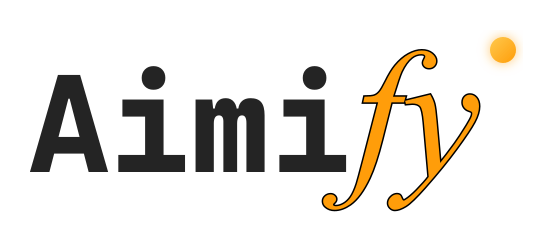
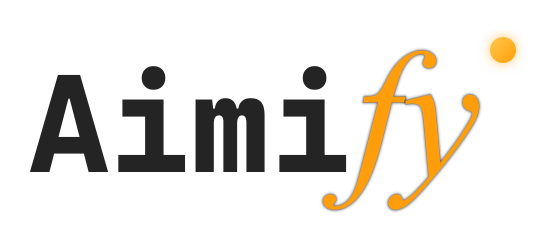
Make the "fy" wordmark outline thinner and blurred
The previous black outline (commit 7c9d404) was too hard/heavy. Replaced
it with a thin, soft-edged glow instead of a crisp ring:

- Exported PNGs: rendered the stroke as a separate blurred pass
  (feGaussianBlur, stdDeviation 1.6) behind the crisp fill text, with
  stroke-width dropped from 3 to 1.25 -- the stroke itself is thin, and
  blurring only the stroke layer (not the fill) keeps the letterforms
  sharp while the outline reads as a soft halo.
- app/globals.css .brand-accent: swapped -webkit-text-stroke (which has
  no blur option) for a stacked text-shadow using var(--aimify-ink),
  giving the same thin/blurred look and staying theme-adaptive.

Verified: both PNG variants visually inspected (dark variant composited
over #171717), CSS brace-balanced, and the dev server's compiled CSS
confirmed to contain the new text-shadow rule on .brand-accent.

diff --git a/app/globals.css b/app/globals.css
@@ -244,13 +244,16 @@ body::-webkit-scrollbar {
   font-weight: 400;
   line-height: 1;
   color: var(--aimify-gold-vivid);
-  /* Thin outline in the theme-adaptive ink color so "fy" keeps clear
-     definition against both light and dark backgrounds, matching the
-     stroke treatment on the exported wordmark PNGs. */
-  -webkit-text-stroke: 1px var(--aimify-ink);
+  /* Thin, blurred outline in the theme-adaptive ink color so "fy" keeps
+     soft definition against both light and dark backgrounds, matching
+     the blurred stroke treatment on the exported wordmark PNGs.
+     text-shadow (not -webkit-text-stroke, which can't blur) stacked
+     twice for a touch more presence without turning into a hard ring. */
+  text-shadow:
+    0 0 2px var(--aimify-ink),
+    0 0 2px var(--aimify-ink);
   transition:
     color 120ms ease,
-    -webkit-text-stroke-color 120ms ease,
     transform 140ms cubic-bezier(0.34, 1.56, 0.64, 1);
 }
 
